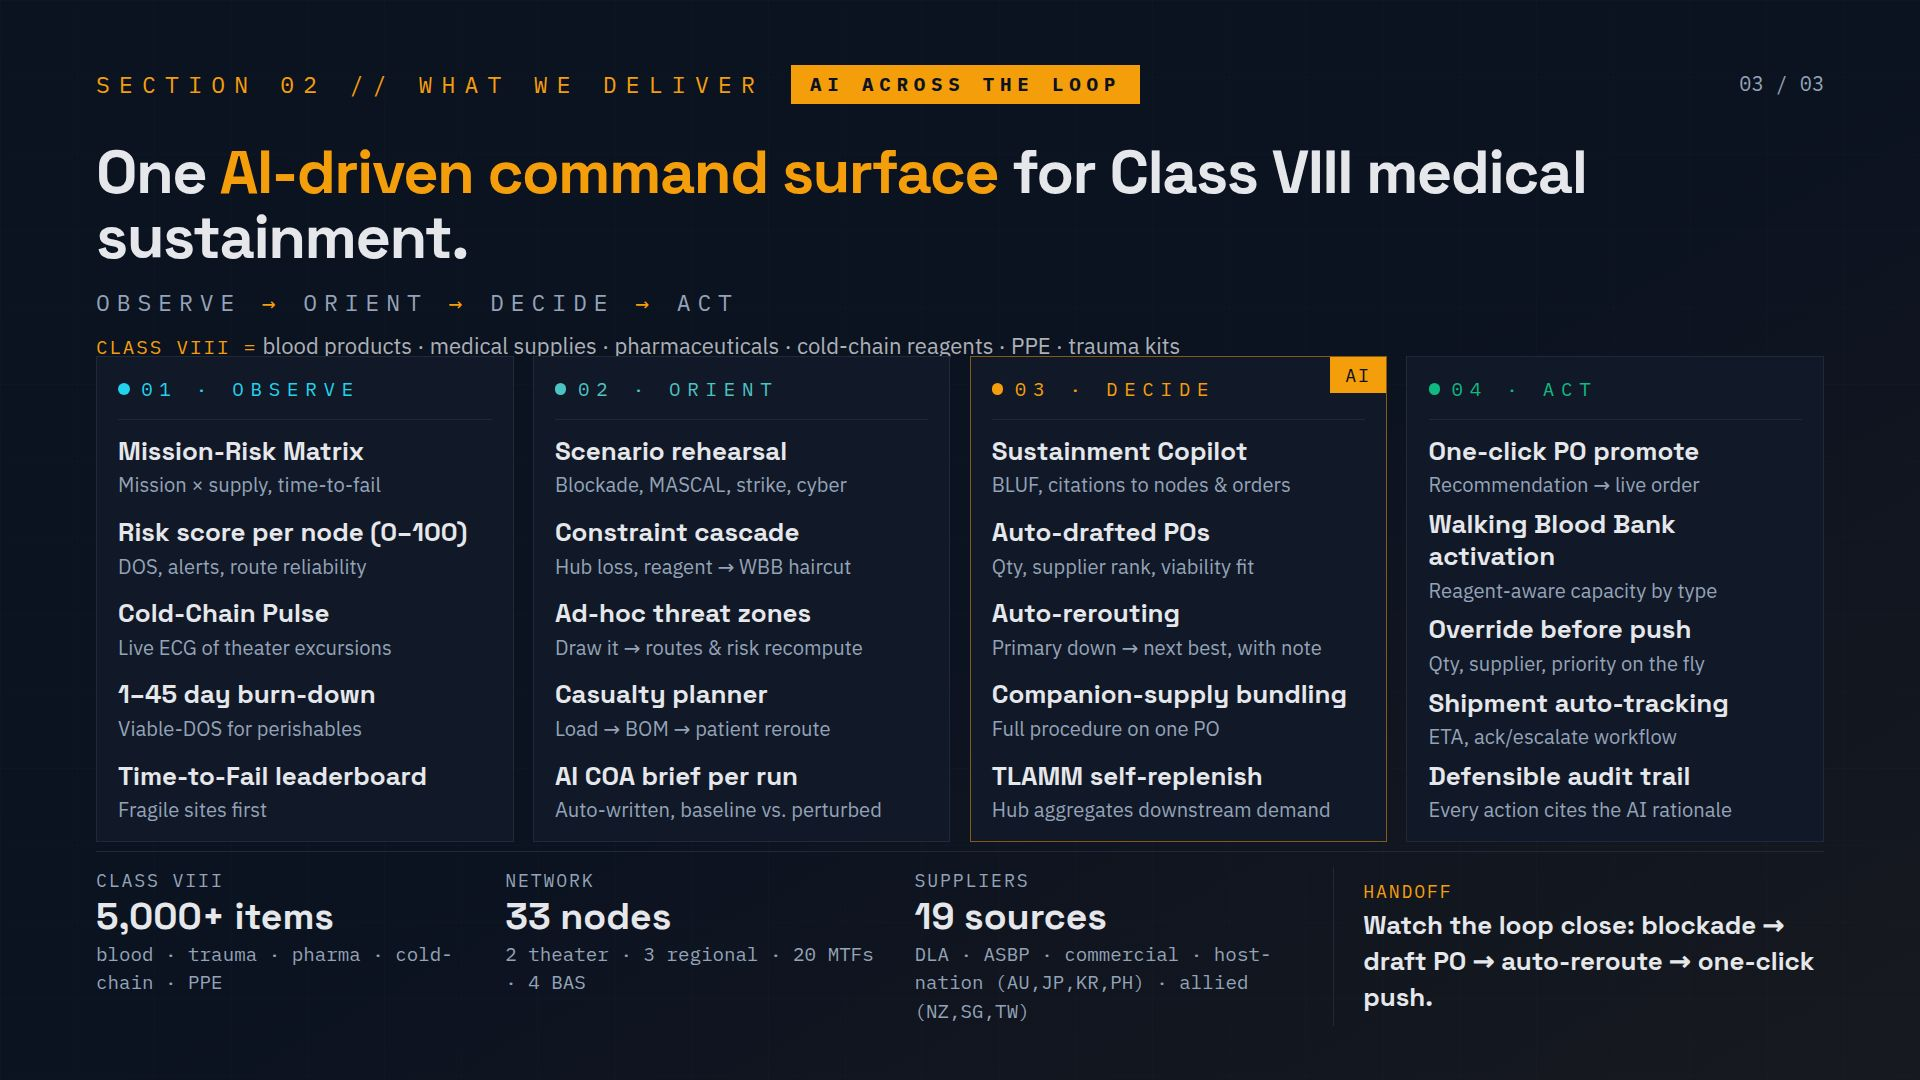
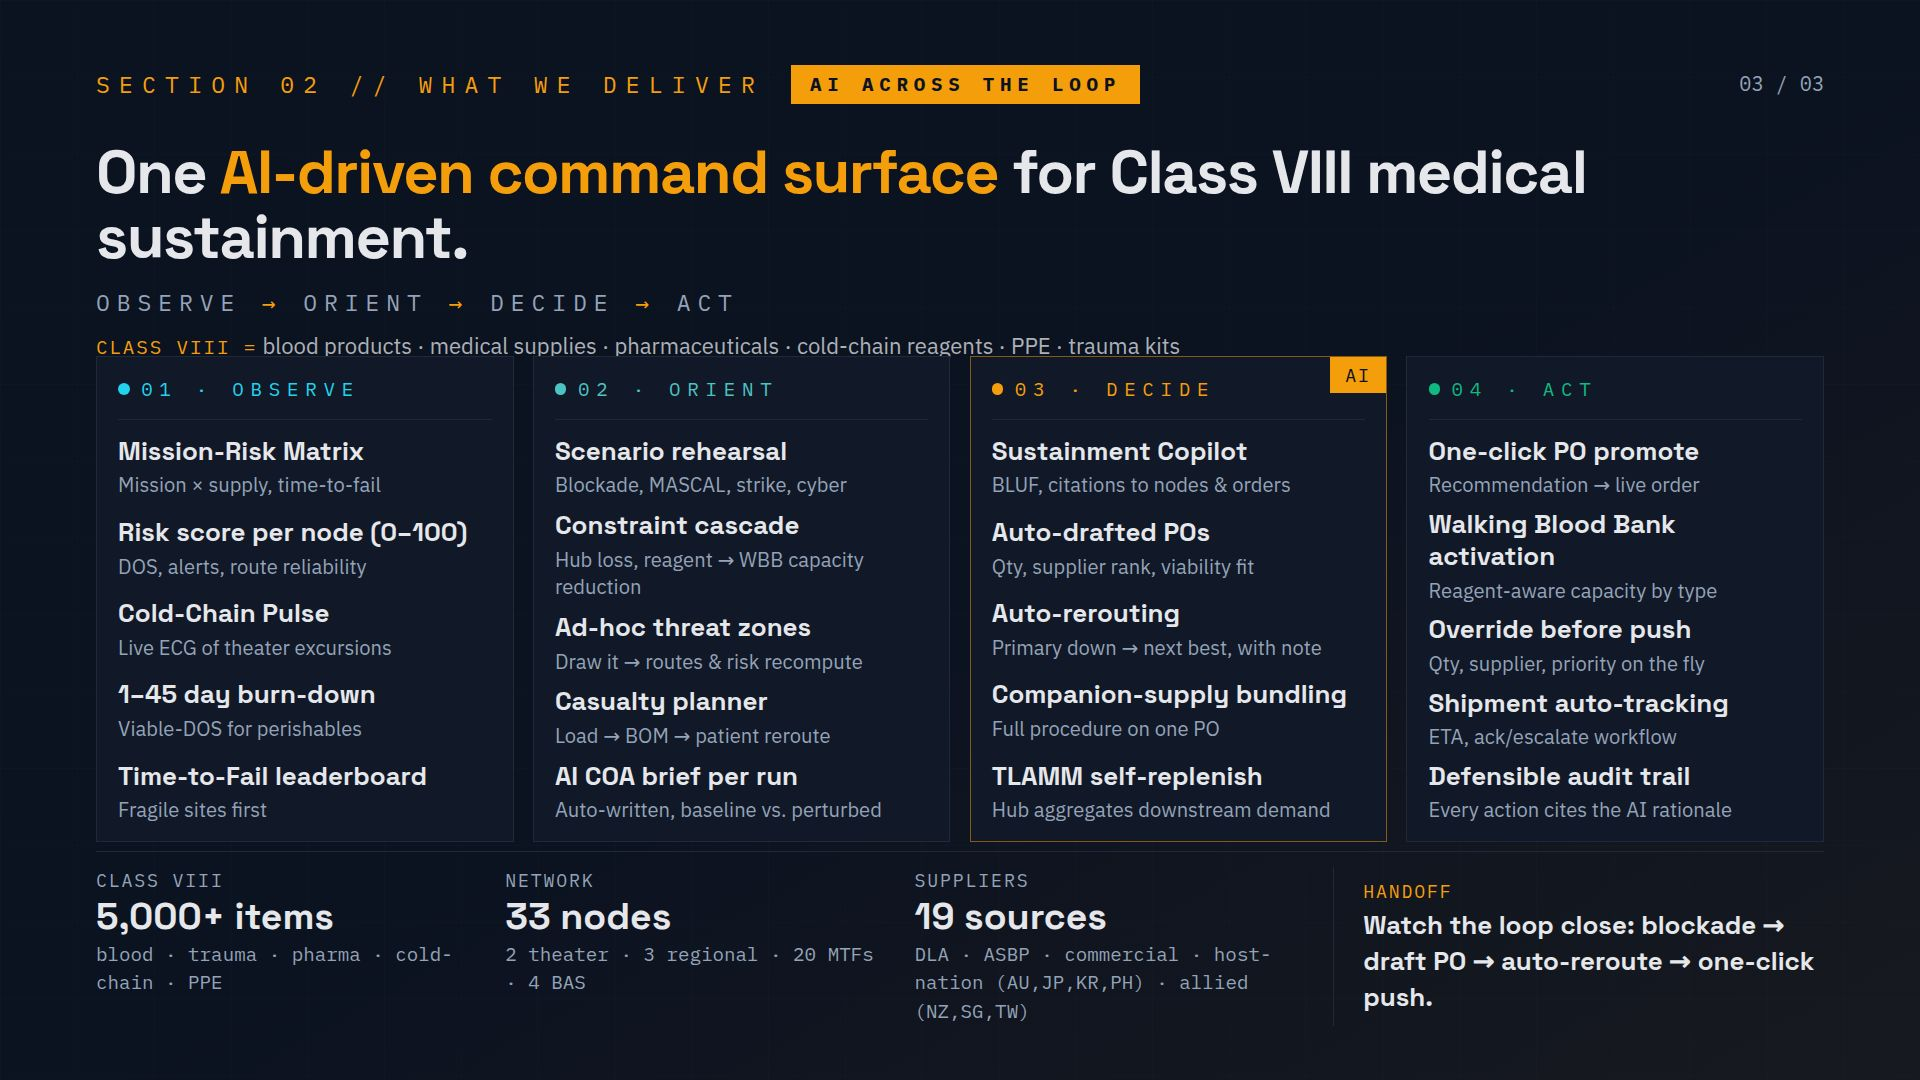
Update phrasing to clarify impact of supply chain issues
Replace military slang with technical description of reduced capability in presentation data.

Replit-Commit-Author: Agent
Replit-Commit-Session-Id: 1ed1aa6d-70c1-4c51-a023-59ab7d37705d
Replit-Commit-Checkpoint-Type: full_checkpoint
Replit-Commit-Event-Id: ea070594-e7ee-4e02-98f1-694dfa7c32bc
Replit-Commit-Screenshot-Url: https://storage.googleapis.com/screenshot-production-us-central1/0bed24c0-601c-41c6-bfc2-54be92437839/1ed1aa6d-70c1-4c51-a023-59ab7d37705d/IlffEGO
Replit-Helium-Checkpoint-Created: true

Changed region(s): [[0.2812, 0.4583, 0.4688, 0.7028]]

diff --git a/artifacts/marines-opener/src/pages/slides/Deliver.tsx b/artifacts/marines-opener/src/pages/slides/Deliver.tsx
@@ -110,7 +110,7 @@ export default function Deliver() {
                   Constraint cascade
                 </div>
                 <div className="font-body text-[1.05vw] text-muted leading-snug mt-[0.4vh]">
-                  Hub loss, reagent &rarr; WBB haircut
+                  Hub loss, reagent &rarr; WBB capacity reduction
                 </div>
               </div>
               <div>
